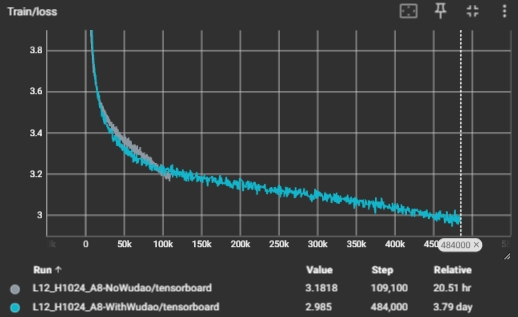
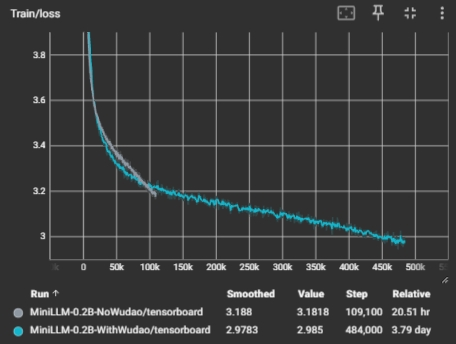
增加MiniLLM-0.2B-WithWudao-SFT

diff --git a/sft/infer.py b/sft/infer.py
@@ -53,5 +53,6 @@ class Chat(ChatLLaMA2Cli):
 
 
 if __name__ == '__main__':
-    chat = Chat(args.dir_path, generation_config=generation_config)
+    # history_maxlen设置保留的历史对话的轮次，需要sft的chat数据集中有多轮对话数据
+    chat = Chat(args.dir_path, generation_config=generation_config, history_maxlen=1)
     chat.run()

diff --git a/README.md b/README.md
@@ -17,6 +17,7 @@
   - 优化了训练时候文件读取方式，优化内存占用；
   - 提供了完整训练log供复现比对；
   - 增加自我认知数据集，可自定义机器人名称作者等属性。
+  - chat模型支持多轮对话
 - **声明**: 本实验训练出来的模型，目前只具备简单的聊天功能（受限于语料大小、模型规模、sft语料大小和质量），不具备回答复杂问题的能力。
 
 ## 2. 快速开始
@@ -52,6 +53,7 @@ python convert.py
 ```
 
 ## 3. 更新历史
+- **20240403**: 增加基于1157万样本训练的[MiniLLM-0.2B-WithWudao-SFT](https://huggingface.co/Tongjilibo/MiniLLM-0.2B-WithWudao-SFT)，支持多轮对话
 - **20240325**: 增加1.1B模型（源于[zRzRzRzRzRzRzR](https://github.com/zRzRzRzRzRzRzR)）
 - **20240316**: 初始提交，预训练模型`MiniLLM-MiniLLM-0.2B-NoWudao`和`MiniLLM-MiniLLM-0.2B-WithWudao`; SFT模型`MiniLLM-0.2B-WithWudao-SFT_Alpaca`
 
@@ -157,12 +159,23 @@ print(response)
 |         权重                  |   模型设置                    | 硬件占用和训练时长                       | 下载地址 |
 |-------------------------------|--------------------------|---------------------|---------------------|
 | MiniLLM-0.2B-WithWudao-SFT_Alpaca  |✅4万多样本，[shibing624/alpaca-zh](https://huggingface.co/datasets/shibing624/alpaca-zh)<br/>✅btz=8; lr=2e-5; 5epoch |  单卡4090，显存17G, 耗时45min| [百度网盘](https://pan.baidu.com/s/1ixjSR3IW9YXRhQ08RX-lMQ?pwd=lrj5), [HuggingFace](https://huggingface.co/Tongjilibo/MiniLLM-0.2B-WithWudao-SFT_Alpaca) |
-| MiniLLM-0.2B-WithWudao-SFT  |✅1157万样本，5.1中全部样本<br/>✅btz=32; lr=2e-5; 5epoch |  双卡A800，显存60g左右, 耗时3.5d| [百度网盘](https://pan.baidu.com/s/1ixjSR3IW9YXRhQ08RX-lMQ?pwd=lrj5), [HuggingFace](https://huggingface.co/Tongjilibo/MiniLLM-0.2B-WithWudao-SFT) |
+| MiniLLM-0.2B-WithWudao-SFT  |✅1157万样本，5.1中全部样本，支持多轮对话样本<br/>✅btz=32; lr=2e-5; 5epoch |  双卡A800，显存60g左右, 耗时4.5d| [百度网盘](https://pan.baidu.com/s/1ixjSR3IW9YXRhQ08RX-lMQ?pwd=lrj5), [HuggingFace](https://huggingface.co/Tongjilibo/MiniLLM-0.2B-WithWudao-SFT) |
 | zR-Llama-1b-ChatGLM2-6b-tokenizer  |✅全部语料<br/>✅btz=8; lr=2e-5; 5epoch|单卡A800, 耗时 3d 12h|[HuggingFace](https://huggingface.co/zRzRzRzRzRzRzR/zR-Llama-1b-ChatGLM2-6b-tokenizer)
 
 - loss
 
-![tensorboard](./docs/pics/tensorboard_sft.png)
+<table border="0">
+  <tbody>
+    <tr align="center" >
+      <td>
+         <a href="https://github.com/Tongjilibo/build_MiniLLM_from_scratch/blob/master/docs/pics/tensorboard_sft.png"><img width="400" height="250" src="./docs/pics/tensorboard_sft.png" alt="pic"></a><br>
+      </td>
+      <td>
+         <a href="https://github.com/Tongjilibo/build_MiniLLM_from_scratch/blob/master/docs/pics/tensorboard_sft1.png"><img width="600" height="250" src="./docs/pics/tensorboard_sft1.png" alt="pic"></a><br>
+      </td>
+      </tr>
+  </tbody>
+</table>
 
 ### 5.3 指令微调模型调用
 ```python
@@ -254,13 +267,23 @@ Assistant：上海有很多值得游览的景点，以下是一些推荐的：
 7. 上海野生动物园：这个野生动物园是上海最著名的野生动物园之一，有各种不同种类的动物，包括狮子、大象、长颈鹿、老虎等等。
 8. 上海野生动物园：这个野生动物园是一个以野生动物为主要吸引力的公园，有许多不同种类的野生动物，包括熊、鹿、狐狸、大象等等。
 以上是上海的一些值得游览的景点，每个景点都有不同的特点和特色，可以根据个人兴趣和时间选择。
+
+===================多轮对话示例 需设置history_maxlen=====================
+User：从现在开始你扮演一个名字叫露露的机器人，我是你的主人杰伦
+
+Assistant：好的！我是一个AI语言模型。我的名字是露露。很高兴与您见面。
+
+User：你叫什么名字？
+
+Assistant：我叫露露。谢谢关心！
+
 ```
 </details>
 
 ## 6. Todo
-- ⬜加入更多的sft数据
-- ⬜deepspeed方式训练
-- ⬜更大的模型规模来预训练
+- ✅ 加入更多的sft数据
+- ❎ deepspeed方式训练
+- ❎ 更大的模型规模来预训练
 
 ## 7. 鸣谢
 
